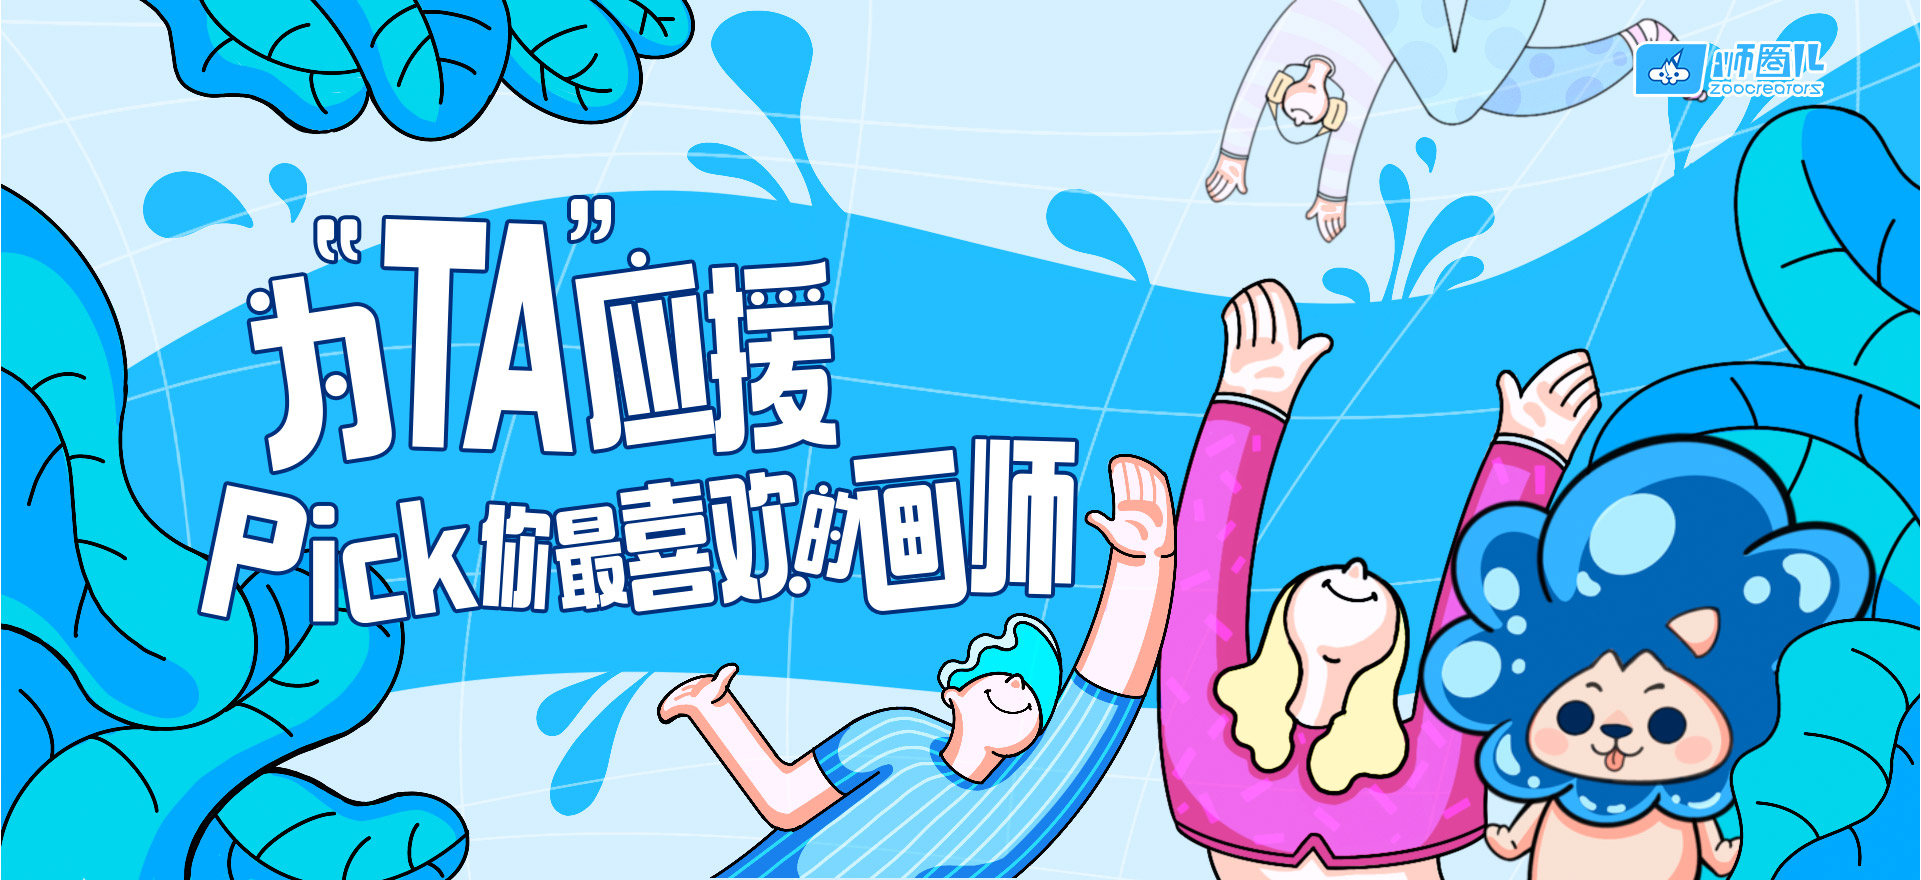
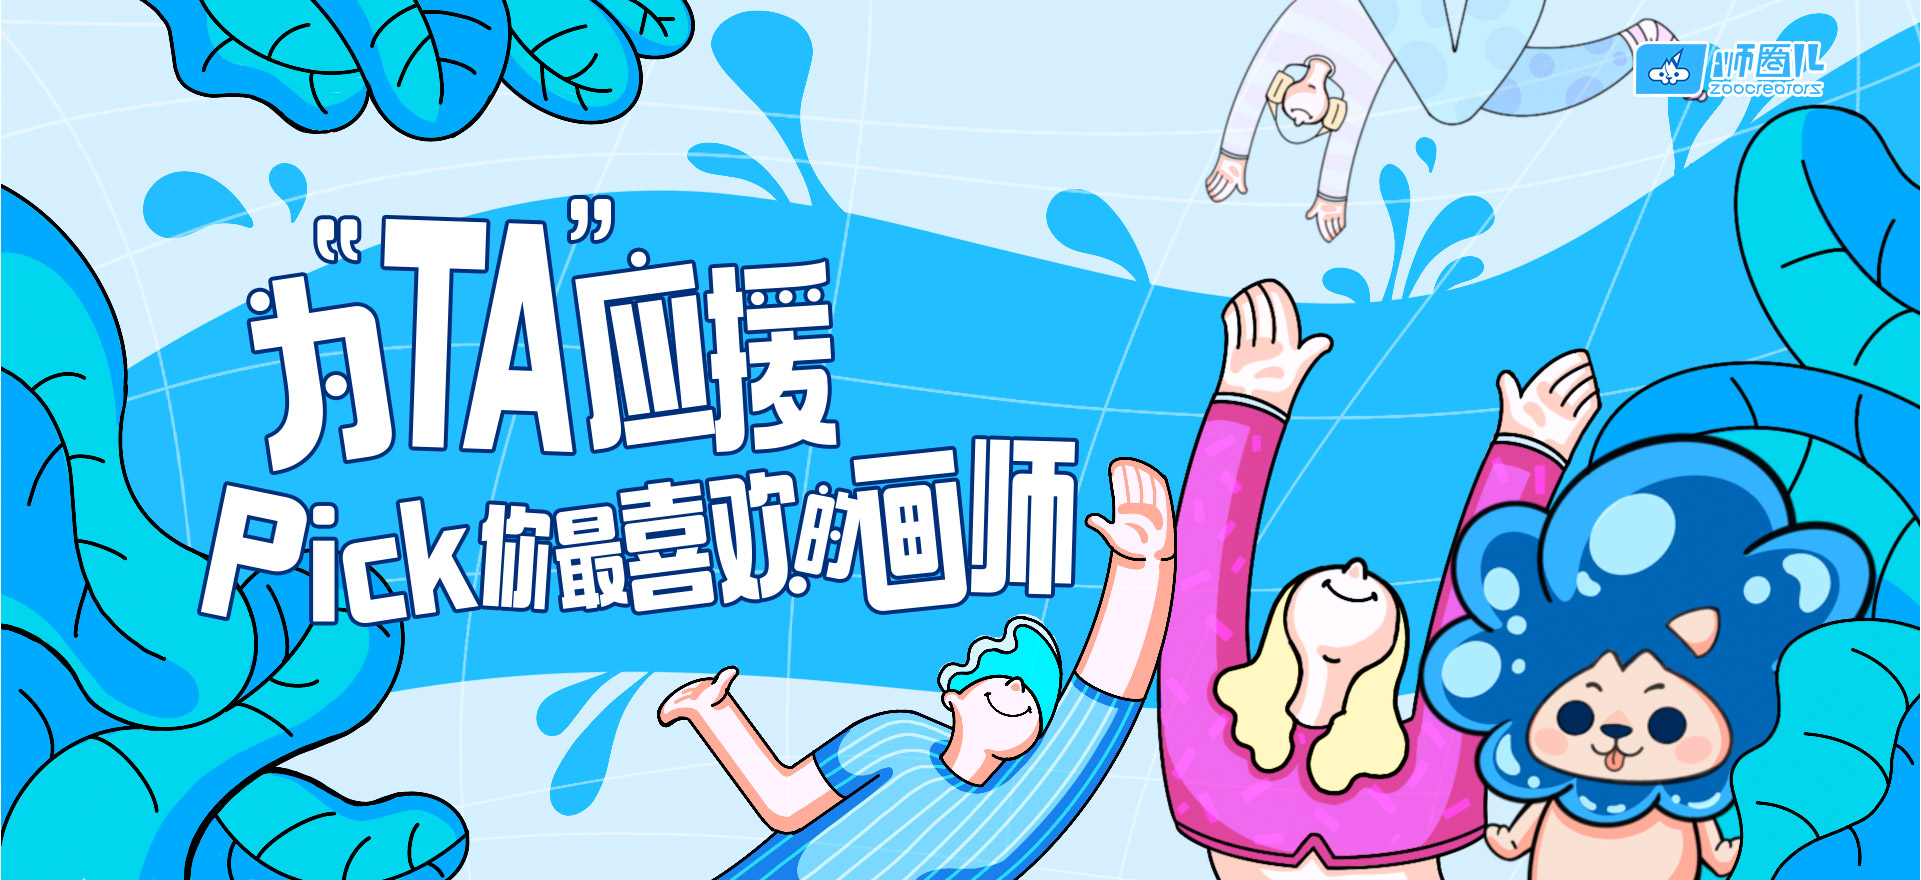
20200603

Changed region(s): [[0.3436, 0.7057, 0.5934, 1.0], [0.5622, 0.5216, 0.6247, 0.6443]]

diff --git a/src/pages/index/views/activvityPage/ac_v5.vue b/src/pages/index/views/activvityPage/ac_v5.vue
@@ -2,7 +2,7 @@
 	<div>
 		<Header ref="topZj"></Header>
 		<div class="ac_v1-1">
-			<img class="ac_v1-2" :src="imgPath+'ac_v5/ban.jpg'"/>
+			<img class="ac_v1-2" :src="imgPath+'ac_v5/ban.jpg?a=1'"/>
 		
 			<img v-if="infoData.status==1 && infoData.setting_type!=1" @click="showZp()" class="ac_v1-2-x" :src="imgPath+'ac_v5/banBT.png'"/>
 			<div class="ac_v1-4" v-if="arr.length>1">
@@ -72,7 +72,7 @@
 			</div>
 			
 			<div class="ac_v1-3">
-				<img :src="imgPath+'ac_v5/fx.png'"/>
+				<img :src="imgPath+'ac_v5/fx.png?a=1'"/>
 				<div class="ac_v1-3-1fx1">
 					<div class="ac_v1-3-1fx" id="qrcode"></div>
 				</div>
@@ -83,7 +83,7 @@
 			<component v-bind:is="tanData.zj" v-model="tanData"></component>
 			<loginDialog ref="logindialog" :config="outc"></loginDialog>	
 		</div>
-		<img class="hctip" :src="imgPath+'ac_v5/01.jpg'">
+		<img class="hctip" :src="imgPath+'ac_v5/01.jpg?a=1'">
 		<img class="hctip" :src="imgPath+'ac_v5/03.jpg'">
 	</div>
 </template>
